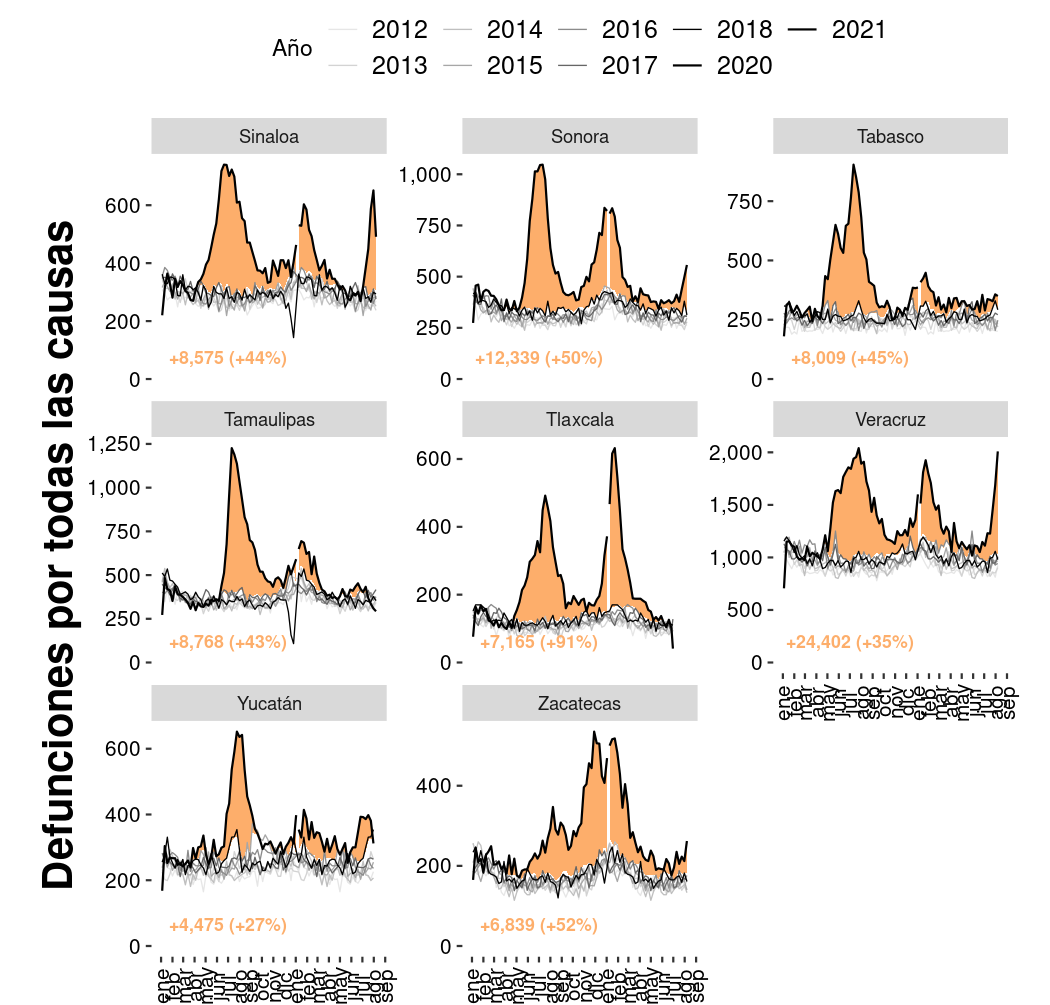
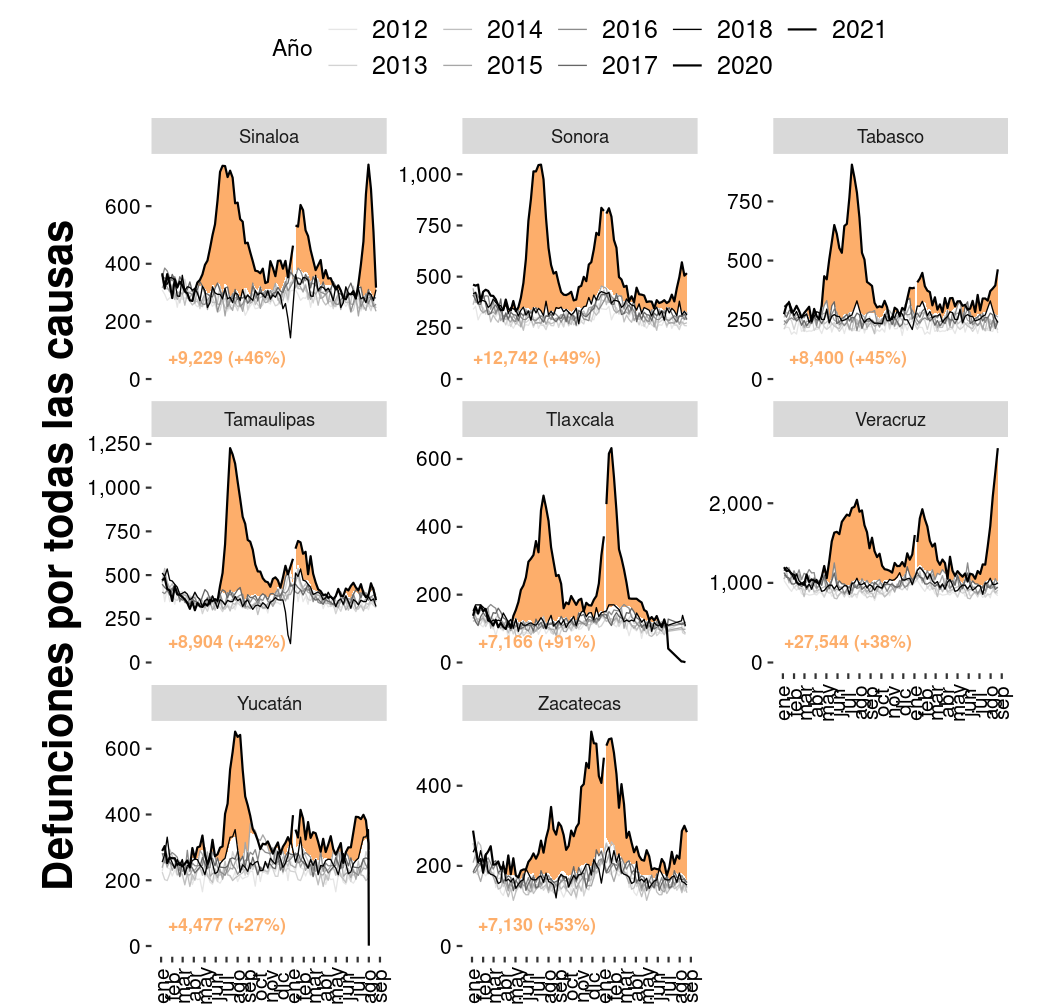
Exceso de mortalidad SE 33

diff --git a/content/muertes/exceso_mortalidad_nacional.md b/content/muertes/exceso_mortalidad_nacional.md
@@ -11,11 +11,11 @@ son diagnosticadas. En
 <a href="https://www.economist.com/graphic-detail/2020/07/15/tracking-covid-19-excess-deaths-across-countries">países</a>
 se ha observado que la pandemia provoca un <i>exceso de mortalidad</i>.</p>
 
-<p>En México, tenemos datos hasta hasta el 7 de agosto de 2021.
+<p>En México, tenemos datos hasta hasta el 21 de agosto de 2021.
 No hubo exceso de mortalidad por unas semanas de junio-julio, pero
 se vuelve a observar desde finales de julio de 2021. En el acumulado de
 los períodos con con <i>exceso de mortalidad</i>,
-se registraron <b>54% más defunciones</b> que en el mismo periodo de años
+se registraron <b>55% más defunciones</b> que en el mismo periodo de años
 previos.
 Estos números son preliminares ya que el catálogo nacional de defunciones
 tarda dos años en finalizarse.</p>

diff --git a/content/muertes/exceso_mortalidad_estados4.md b/content/muertes/exceso_mortalidad_estados4.md
@@ -8,7 +8,7 @@ medir el costo humano en cada entidad.</p>
 
 <p>Estas gráficas muestran el
 <a href="#exceso_mortalidad_nacional"><i>exceso de mortalidad</i></a>
-con datos hasta el 7 de agosto de 2021 para 24 de las 32 entidades federativas del país.
+con datos hasta el 21 de agosto de 2021 para 24 de las 32 entidades federativas del país.
 La región con color indica las semanas con <i>exceso de mortalidad</i>.
 Se indica el número absoluto de exceso de mortalidad para canda entidad y el
 incremento porcentual. Las entidades federativas están organizadas

diff --git a/content/muertes/exceso_mortalidad_estados2.md b/content/muertes/exceso_mortalidad_estados2.md
@@ -8,7 +8,7 @@ medir el costo humano en cada entidad.</p>
 
 <p>Estas gráficas muestran el
 <a href="#exceso_mortalidad_nacional"><i>exceso de mortalidad</i></a>
-con datos hasta el 7 de agosto para 24 de las 32 entidades federativas del país.
+con datos hasta el 21 de agosto para 24 de las 32 entidades federativas del país.
 La región con color indica las semanas con <i>exceso de mortalidad</i>.
 Se indica el número absoluto de exceso de mortalidad para canda entidad y el
 incremento porcentual. Las entidades federativas están organizadas

diff --git a/content/muertes/exceso_mortalidad_estados3.md b/content/muertes/exceso_mortalidad_estados3.md
@@ -8,7 +8,7 @@ medir el costo humano en cada entidad.</p>
 
 <p>Estas gráficas muestran el
 <a href="#exceso_mortalidad_nacional"><i>exceso de mortalidad</i></a>
-con datos hasta el 7 de agosto para 24 de las 32 entidades federativas del país.
+con datos hasta el 21 de agosto para 24 de las 32 entidades federativas del país.
 La región con color indica las semanas con <i>exceso de mortalidad</i>.
 Se indica el número absoluto de exceso de mortalidad para canda entidad y el
 incremento porcentual. Las entidades federativas están organizadas

diff --git a/content/muertes/exceso_mortalidad_estados1.md b/content/muertes/exceso_mortalidad_estados1.md
@@ -8,7 +8,7 @@ medir el costo humano en cada entidad.</p>
 
 <p>Estas gráficas muestran el
 <a href="#exceso_mortalidad_nacional"><i>exceso de mortalidad</i></a>
-con datos hasta el 7 de agosto para 8 de las 32 entidades federativas del país.
+con datos hasta el 21 de agosto para 8 de las 32 entidades federativas del país.
 La región con color indica las semanas con <i>exceso de mortalidad</i>.
 Se indica el número absoluto de exceso de mortalidad para canda entidad y el
 incremento porcentual. Las entidades federativas están organizadas
